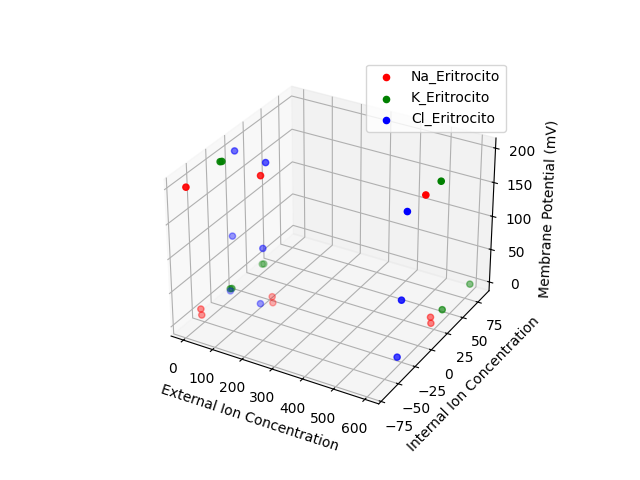
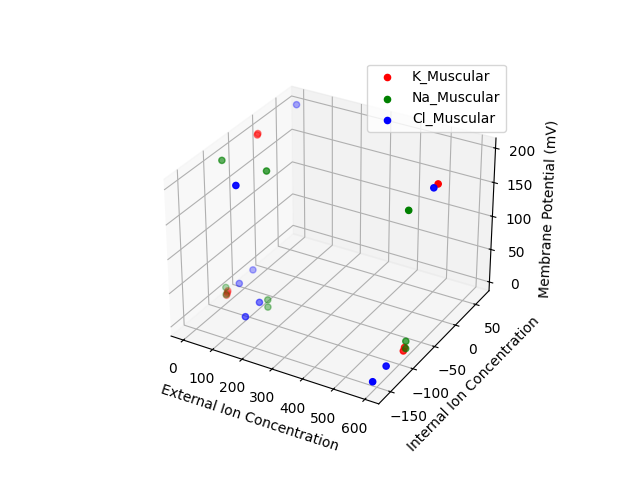
Add files via upload

diff --git a/3d_superficie.py b/3d_superficie.py
@@ -7,7 +7,7 @@ import numpy as np
 from scipy.interpolate import griddata
 
 # Ruta donde se almacenan los archivos de Excel
-file_paths = glob.glob('/home/cruz/Documentos/UNAM/Animales_II/eritrocito/*.xlsx')  # Busca todos los archivos Excel en la carpeta
+file_paths = glob.glob('/home/cruz/Documentos/UNAM/Animales_II/celula_muscular/*.xlsx')  # Busca todos los archivos Excel en la carpeta
 
 # Crear una figura para el gráfico 3D
 fig = plt.figure()
@@ -98,7 +98,7 @@ for idx, file_path in enumerate(file_paths):
 ax.legend()
 
 # Guardar el gráfico como imagen en lugar de mostrarlo, si hay problemas con la GUI
-plt.savefig('/home/cruz/Documentos/UNAM/Animales_II/eritrocito/3d_scatter_plot_with_surface.png')
+plt.savefig('/home/cruz/Documentos/UNAM/Animales_II/celula_muscular/3d_scatter_plot_with_surface.png')
 
 # Mostrar el gráfico
 plt.show()

diff --git a/3d_membrane-potential.py b/3d_membrane-potential.py
@@ -5,7 +5,7 @@ import glob
 import os
 
 # Ruta donde se almacenan los archivos de Excel
-file_paths = glob.glob('/home/cruz/Documentos/UNAM/Animales_II/eritrocito/*.xlsx')  # Busca todos los archivos Excel en la carpeta
+file_paths = glob.glob('/home/cruz/Documentos/UNAM/Animales_II/celula_muscular/*.xlsx')  # Busca todos los archivos Excel en la carpeta
 
 # Crear una figura para el gráfico 3D
 fig = plt.figure()
@@ -44,7 +44,7 @@ ax.set_ylabel('Internal Ion Concentration')
 ax.legend()
 
 # Guardar el gráfico como imagen en lugar de mostrarlo, si hay problemas con la GUI
-plt.savefig('/home/cruz/Documentos/UNAM/Animales_II/eritrocito/3d_scatter_plot.png')
+plt.savefig('/home/cruz/Documentos/UNAM/Animales_II/celula_muscular/3d_scatter_plot.png')
 
 # Mostrar el gráfico
 plt.show()
